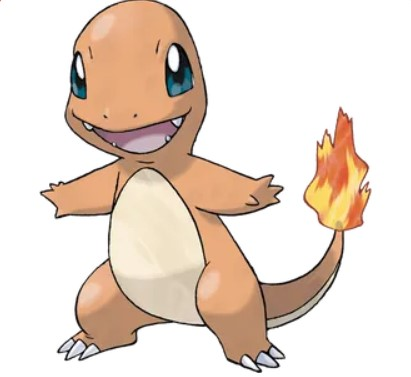
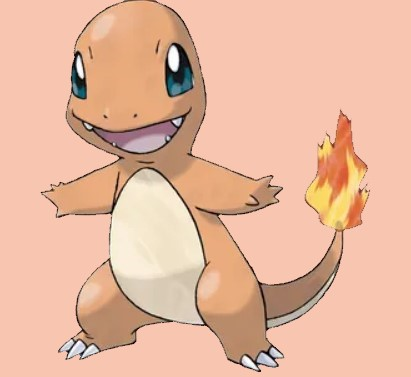
style set

diff --git a/style.css b/style.css
@@ -17,7 +17,62 @@ body{
     display: flex;
     flex-direction: column;
     background-color:rgb(248, 197, 176);
-    height: 600px;
+    height: 400px;
     flex-grow: 1;
     
+}
+.rule_title{
+    display: flex;
+    flex-direction: column;
+    justify-content: center;
+    align-items: center;
+}
+.rule{
+    font-size: 30px;
+    font-family: Comic Sans MS, Comic Sans, cursive;
+
+}
+.win_rule,.footer,.score_box{
+    font-family: Comic Sans MS, Comic Sans, cursive;
+}
+.score_box{
+    display: flex;
+    justify-content: center;
+    align-items: center;
+    height: 150px;
+    gap:30px
+}
+.sign{
+    display: flex;
+    flex-direction: column;
+    justify-content: center;
+    align-items: center;
+    width: 100px;
+}
+#player,
+#computer{
+    font-size: 50px;
+    height: 50px;
+    padding: 0px;
+    margin: 0px;
+}
+.weapon{
+    display: flex;
+    justify-content: center;
+    align-items: center;
+    gap:50px;
+}
+#water,
+#green,
+#fire{
+    height: 100px;
+    width: 100px;
+}
+.footer{
+    display: flex;
+    justify-content: center;
+    align-items: center;
+    background-color:rgba(238, 229, 225, 0.818);
+    height: 50px;
+    flex-grow: 1;
 }

diff --git a/index.html b/index.html
@@ -14,10 +14,31 @@
       Fire Water Green
     </div>
     <div class ="main">
+        <div class="rule_title">
+          <div class="rule" >Choose your weaopn</div>
+          <div class="win_rule" >First to score 5 points wins the game</div>
+        </div>
+        <div class="score_box">
+          <div class="sign">
+            <p id="player">❔</p>
+            <p id="score_player">Player：0</p> 
+          </div>
+          <div class="sign"> 
+            <p id="computer">❔</p>
+            <p id="score_computer">Computer：0</p> 
+          </div>
+        </div>
+        <div class="weapon">
+          <img id="fire"src="./image/fire.jpg">
+          
+          <img id="water" src="./image/water.jpg">
 
+          <img id="green" src="./image/green.jpg">
+        </div>
+        
     </div>
     <div class ="footer">
-
+      Writer:Penny_Kuo
     </div>
 </body>
 </html>
